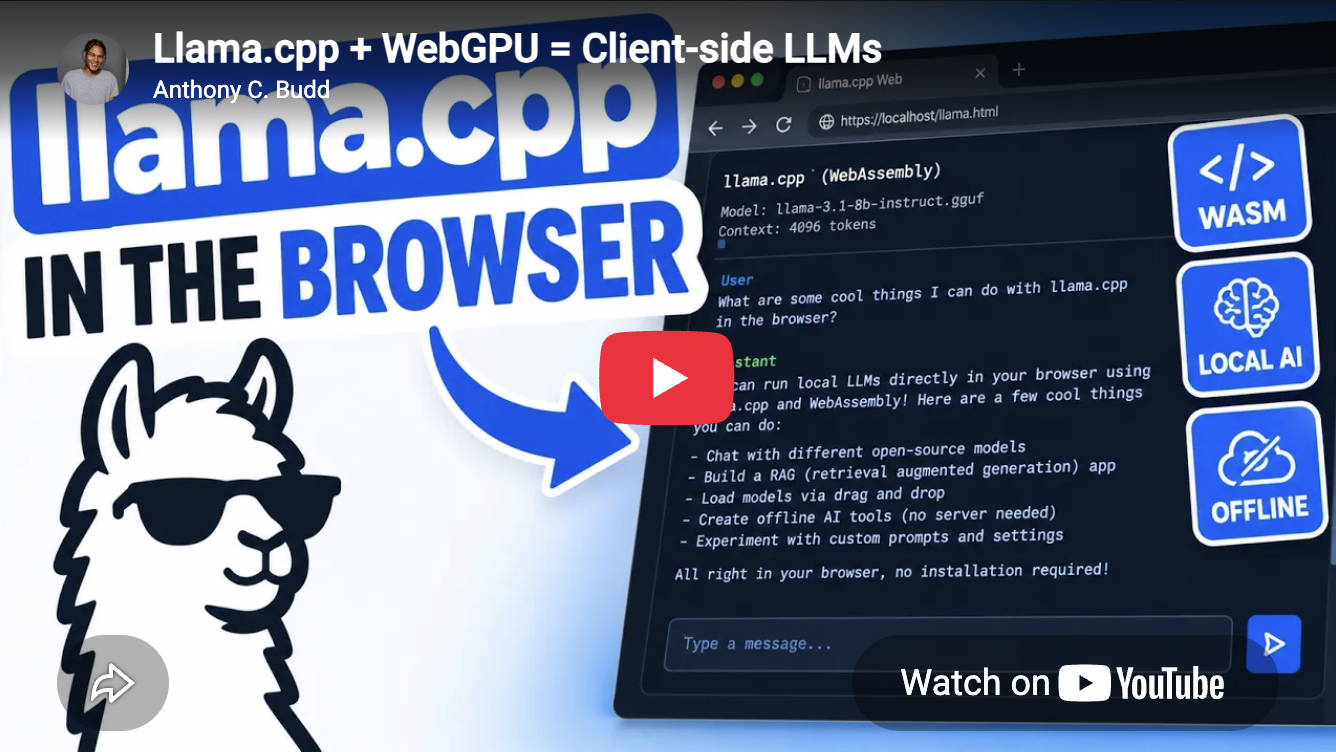
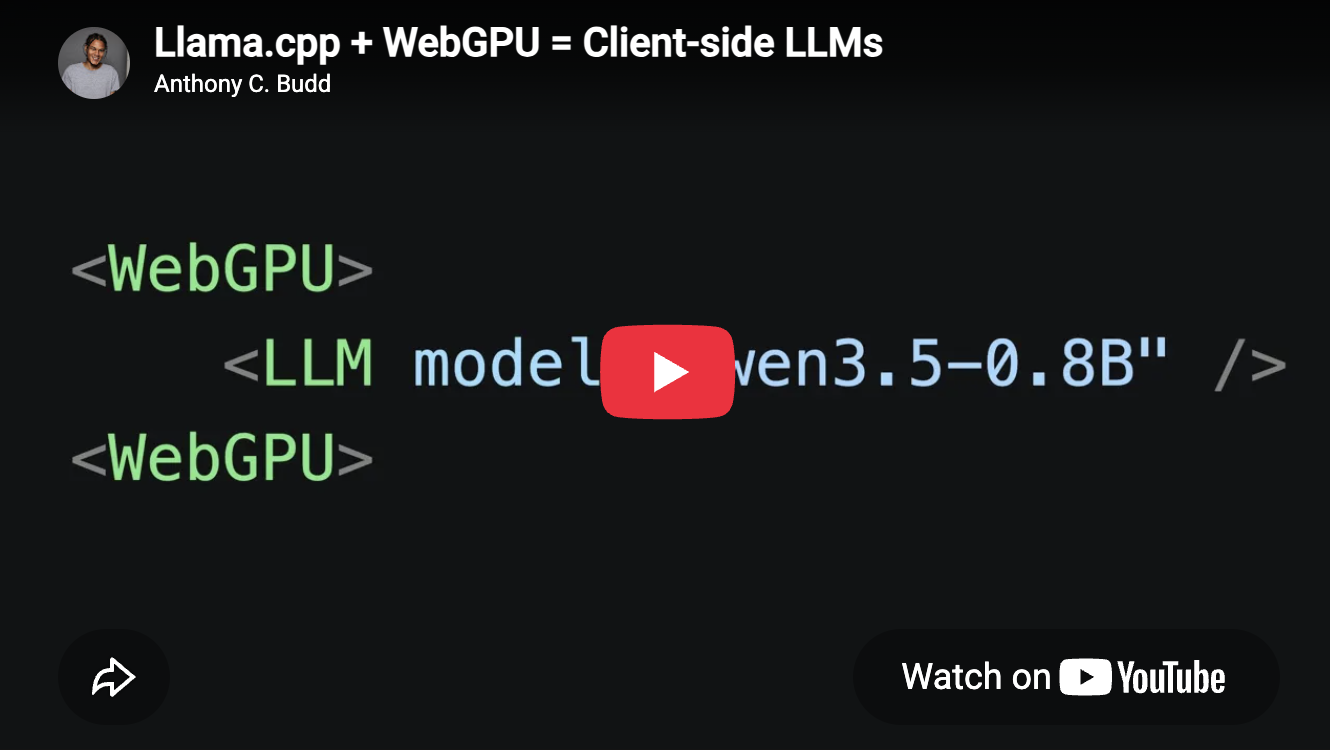
ReadMe.md

diff --git a/README.md b/README.md
@@ -15,8 +15,9 @@ REST API & SaaS Specialist. Over 15 years of experience building web technology 
 - ✅ Laravel Framework Contributor
 
 
+
 # YouTube
-| <a href="https://www.youtube.com/watch?v=yQP7KTeFAAs"><img width="500" src="https://raw.githubusercontent.com/anthonybudd/anthonybudd/master/img/yt-ts-cpu.png?v=1">Building a CPU, Language & Compiler with TypeScript</a> | <a href="https://www.youtube.com/watch?v=sh04d1Z8Qgg"><img width="500" src="https://raw.githubusercontent.com/anthonybudd/anthonybudd/master/img/yt-ai-with-php.png?v=1">Building AI... but using PHP not Python</a> | <a href="https://www.youtube.com/watch?v=Ue6Nr_FEFWI"><img width="500" src="https://raw.githubusercontent.com/anthonybudd/anthonybudd/master/img/yt-laravel.png?v=1">Laravel Lite - The World's Smallest Laravel Instance</a> |
+| <a href="https://youtu.be/6S8rctrvbNA"><img width="500" src="https://raw.githubusercontent.com/anthonybudd/anthonybudd/master/img/llama-wasm-thumbnail.png?v=3">Client-Side LLMs using Llama.cpp & WebGPU</a> | <a href="https://www.youtube.com/watch?v=yQP7KTeFAAs"><img width="500" src="https://raw.githubusercontent.com/anthonybudd/anthonybudd/master/img/yt-ts-cpu.png?v=1">Building a CPU, Language & Compiler with TypeScript</a> | <a href="https://www.youtube.com/watch?v=sh04d1Z8Qgg"><img width="500" src="https://raw.githubusercontent.com/anthonybudd/anthonybudd/master/img/yt-ai-with-php.png?v=1">Building AI... but using PHP not Python</a> |
 | -- | -- | -- |
 
 # Work
@@ -90,9 +91,12 @@ $router->get('/', function () {
 
 
 ---
+
 ### [Building a CPU, Language & Compiler in TypeScript](https://github.com/anthonybudd/TS-CPU)
 
-<a href="https://github.com/anthonybudd/TS-CPU"><img width="400" src="https://raw.githubusercontent.com/anthonybudd/anthonybudd/master/img/ts-cpu-cover.png?v=2"></a>
+<a href="https://github.com/anthonybudd/TS-CPU">
+<img width="400" src="https://raw.githubusercontent.com/anthonybudd/anthonybudd/master/img/ts-cpu-cover.png?v=3">
+</a>
 
 ![Language](https://img.shields.io/badge/Language-typescript-success?style=flat)
 
@@ -108,20 +112,21 @@ cpu.loadProgram(Compiler.compile("./program.ass"));
 cpu.run();
 ```
 
-
 ---
-### [Ai with PHP](https://github.com/anthonybudd/Ai-with-PHP)
 
-<a href="https://github.com/anthonybudd/Ai-with-PHP"><img width="500" src="https://raw.githubusercontent.com/anthonybudd/anthonybudd/master/img/ai-with-php.png"></a>
+### [Client-side LLMs using Llama.cpp and WebGPU](https://github.com/anthonybudd/Llama.cpp-WASM-WebGPU)
 
-![Language](https://img.shields.io/badge/Language-php-success?style=flat)
+<a href="https://github.com/anthonybudd/Llama.cpp-WASM-WebGPU">
+<img width="400" src="https://raw.githubusercontent.com/anthonybudd/anthonybudd/master/img/llama-wasm-thumbnail.png?v=3">
+</a>
 
-Some experiments using PHP with the [PHP-FANN](https://github.com/bukka/php-fann) extension to find out how difficult it is to build Ai with PHP.
+![Language](https://img.shields.io/badge/Language-javascript-success?style=flat)
 
-- 🐘 OCR using PHP
-- ▶ [YouTube Video](https://youtu.be/sh04d1Z8Qgg)
-- 💻 Web UI for testing models
+This repo is a technical proof of concept showing an LLM running client-side in a browser using Llama.cpp compiled to WASM with WebGPU.
 
+- ▶ [YouTube Video](https://youtu.be/6S8rctrvbNA)
+- 💬 LLM Fully In-Browser 
+- 📄 Client-Side PDF Document Analysis
 
 ---
 
@@ -199,21 +204,20 @@ A crypto-currency ATM that someone with minimal electro-mechanical skill can bui
 ---
 
 
-<a href="https://github.com/anthonybudd/camera-spike"><img src="https://raw.githubusercontent.com/anthonybudd/anthonybudd/main/img/camera-spike.png?v=1"></a>
+### [Ai with PHP](https://github.com/anthonybudd/Ai-with-PHP)
 
+<a href="https://github.com/anthonybudd/Ai-with-PHP"><img width="500" src="https://raw.githubusercontent.com/anthonybudd/anthonybudd/master/img/ai-with-php.png"></a>
 
-### [Camera Spike](https://github.com/anthonybudd/Camera-Spike)
-![Language](https://img.shields.io/badge/Language-Node.js-success?style=flat)
-![Stars](https://img.shields.io/github/stars/anthonybudd/Camera-Spike?style=social)
+![Language](https://img.shields.io/badge/Language-php-success?style=flat)
 
+Some experiments using PHP with the [PHP-FANN](https://github.com/bukka/php-fann) extension to find out how difficult it is to build Ai with PHP.
 
-Camera Spike is a basic self-hosted security camera project for the Raspberry Pi. A web UI is provided using Tor, this allows you to remotely monitor the feed without needing to register the device with a 3rd-party or without disclosing your IP address or the IP address of the Camera Spike. CLI tools are provided so you can easily create a custom onion v3 address.
+- 🐘 OCR using PHP
+- ▶ [YouTube Video](https://youtu.be/sh04d1Z8Qgg)
+- 💻 Web UI for testing models
 
-&nbsp;&nbsp;&nbsp;&nbsp;
 
 ---
-
-<a href="https://github.com/anthonybudd/s4"><img width="300" src="https://raw.githubusercontent.com/anthonybudd/anthonybudd/master/img/s4.png"></a>
 
 
 ### [S4](https://github.com/anthonybudd/s4)
@@ -228,49 +232,7 @@ S4 is 100% compatible AWS S3 storage, accessed through Tor and distributed using
 
 ---
 
-<a href="https://github.com/anthonybudd/nginx-tor-proxy"><img height="75" src="https://github.com/anthonybudd/nginx-tor-proxy/raw/master/docs/img/header.png"></a>
 
-### [NGINX TOR Proxy](https://github.com/anthonybudd/nginx-tor-proxy)
-
-
-NGINX Tor Proxy is a simple container that exposes your containers with a custom Tor v3 Onion address.
-
-Tor vanity URLs generated using [cathugger/mkp224o](https://github.com/cathugger/mkp224o)
-
-<!-- ---
-
-### [CLI Password Manager](https://github.com/anthonybudd/CLI-Password-Manager)
-
-CLI Password Manager gives you 4 simple commands for easily encrypting and decrypting a local password vault using OpenSSL.
-
-```js
-clipm-dec
-clipm-nano
-clipm-enc
-``` -->
-
----
-
-<!-- ### [If](https://github.com/anthonybudd/If)
-
-A chainabale if library for JavaScript.
-
-This is totally pointless, I just wanted to see if I could build this because I think this kind of chainable syntax looks better over control-structure syntax in the `.then()` method of a promise.
-
-```js
-const myArr = ['a', 'b', 'c'];
-const result = new If(myArr.length < 2)
-    .then(() => ('Array less than 2'))
-    .elseif((myArr.length > 3), () => ('Array greater than 3'))
-    .else(() => ('Array has length 3'))
-    .fi();
-
-console.log(result); // 'Array has length 3'
-```
-
-
-
---- -->
 
 
 ### Archived Projects
